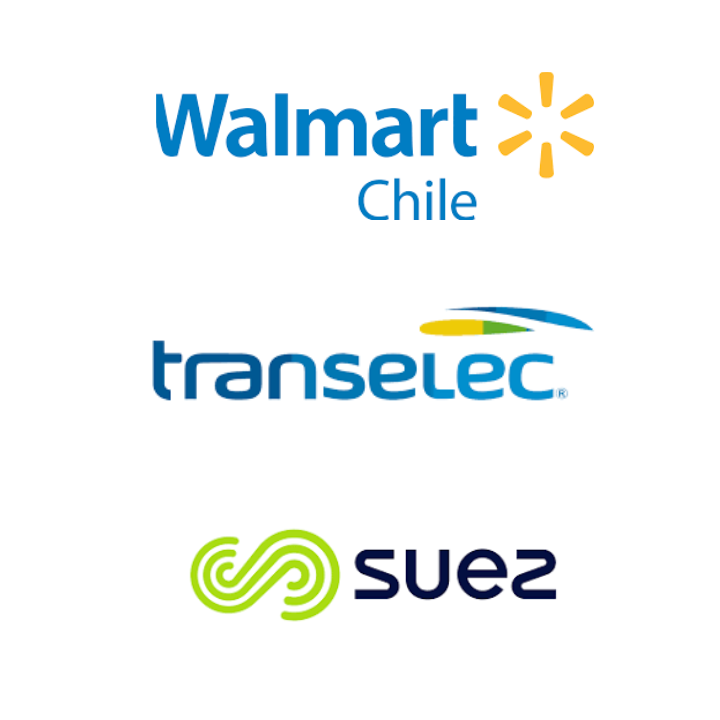
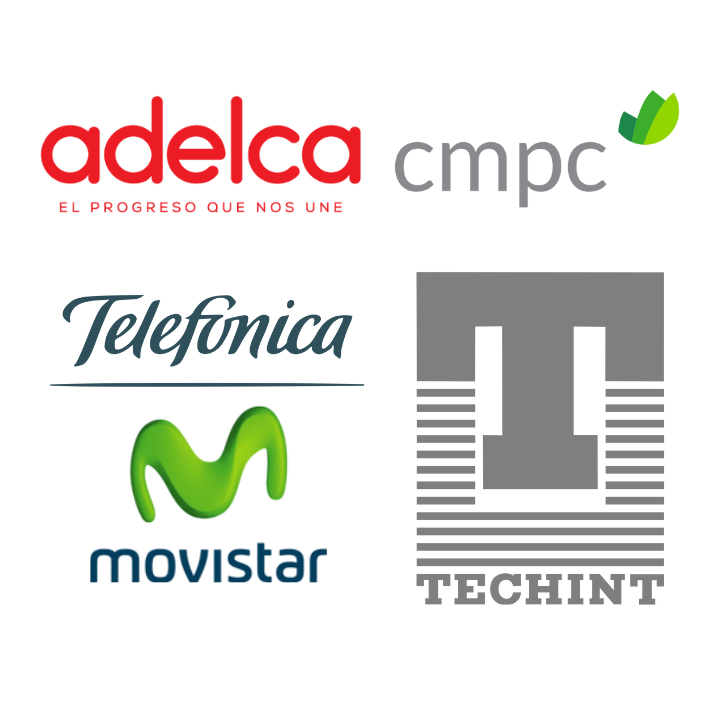
se agregan marcas al carrusel

Changed region(s): [[0.0917, 0.3667, 0.9472, 0.8861], [0.0611, 0.0917, 0.9472, 0.3056]]

diff --git a/root/index.html b/root/index.html
@@ -78,6 +78,15 @@
                     <section class="slider-section">
                         <img src="./assets/carrusel/3.png">
                     </section>
+                    <section class="slider-section">
+                        <img src="./assets/carrusel/4.png">
+                    </section>
+                    <section class="slider-section">
+                        <img src="./assets/carrusel/5.png">
+                    </section>
+                    <section class="slider-section">
+                        <img src="./assets/carrusel/6.png">
+                    </section>
                 </div>
                 <!-- <div class="btn-left"><i class="bx bx-chevron-left"></i></div>
                 <div class="btn-right"><i class="bx bx-chevron-right"></i></div> -->

diff --git a/root/style/style.css b/root/style/style.css
@@ -178,13 +178,13 @@ footer{
 }
 
 .carruseles{
-    width: 300%;
+    width: 600%;
     height: 100%;
     display: flex;
 }
 
 .slider-section{
-    width: calc(100% /3);
+    width: calc(100% /6);
     height: 100%;
 }
 
